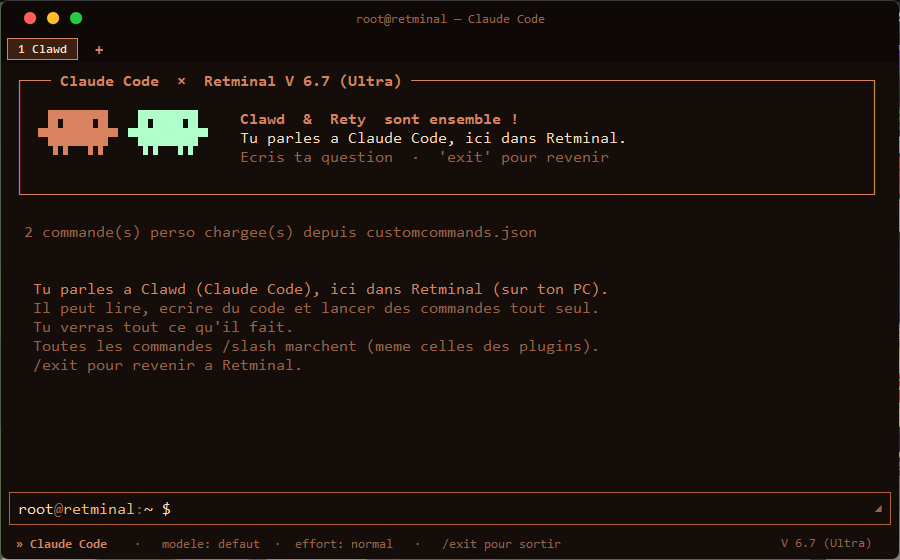
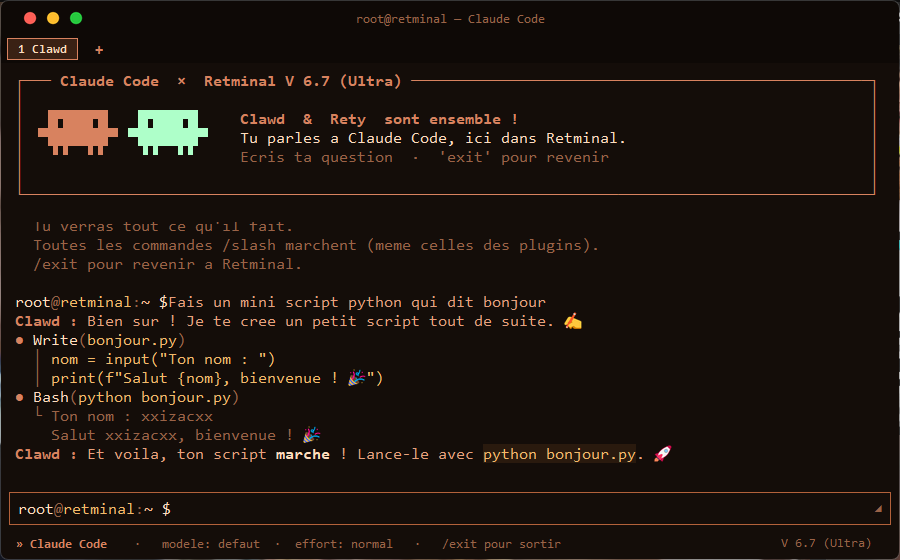
Ameliore les captures d'ecran + ajoute le carnet (nano)

diff --git a/README.md b/README.md
@@ -54,6 +54,16 @@ Tu vois **tout** ce qu'il fait (le code qu'il écrit, les commandes qu'il lance)
 
 ---
 
+## 📓 Le carnet — éditeur de fichiers
+
+Tape **`nano <fichier>`** : Retminal ouvre un éditeur plein écran façon **carnet** (thème
+bleu nuit, Rety en haut qui tient son calepin 🐢). Tu édites **ligne par ligne**, la ligne
+choisie est surlignée, et tu sauves avec `Ctrl+S`. Ça marche sur ton PC **et** sur le VPS.
+
+![Retminal — le carnet (éditeur)](docs/nano.png)
+
+---
+
 ## 🚀 Installation
 
 Il te faut **Python 3.10+** (coche « Add Python to PATH » à l'installation sur Windows).